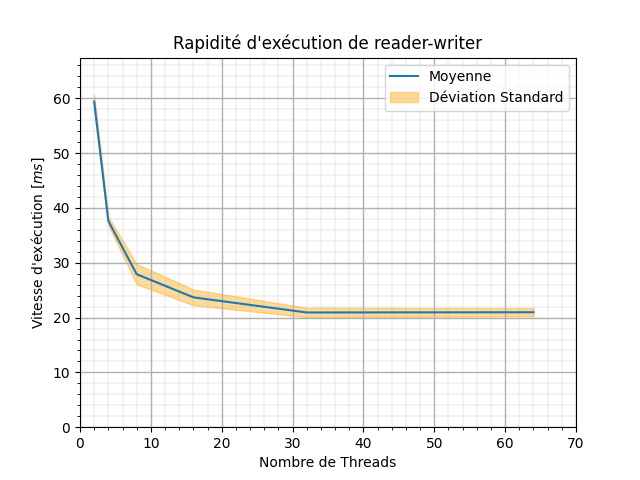
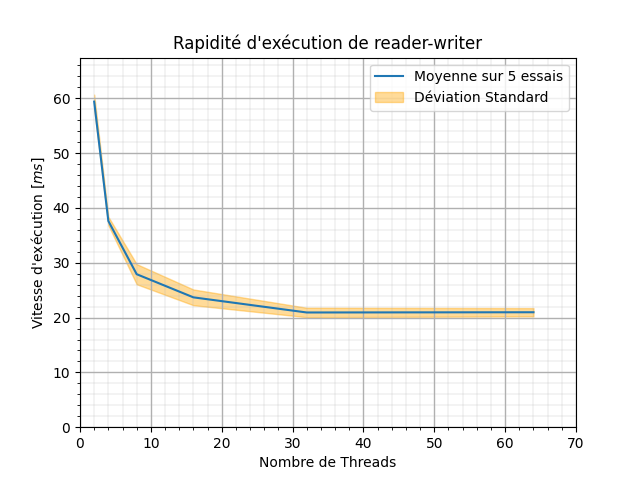
Test and set little bug fix

Changed region(s): [[0.5625, 0.125, 0.9062, 0.2188]]

diff --git a/Inginious/P1/src/test-test-and-set.c b/Inginious/P1/src/test-test-and-set.c
@@ -6,24 +6,25 @@
 int verrou = 0;
 int NTHREADS;
 
-inline void lock(){
+void lock(){
 
-__asm__(
-        
-"ENTER:"
-        "movl $1, %eax\n\t"
-        "cmpl %eax, %0\n\t"
-        "je  ENTER\n\t" //keeps checking verrou's value until it is == 0 (!= 1)
-        "jmp CHECK\n\t"
+    asm(
+            
+    "ENTER:"
+            "movl $1, %%eax\n\t"
+            "cmpl %%eax, %0\n\t"
+            "je  ENTER\n\t" //keeps checking verrou's value until it is == 0 (!= 1)
+            "jmp CHECK\n\t"
 
 
-"CHECK:"
-        "xchgl %eax, %0\n\t"
-        "testl %eax, %eax\n\t"
-        "jnz ENTER\n\t"
-        //"ret \n\t"
+    "CHECK:"
+            "xchgl %%eax, %0\n\t"
+            "testl %%eax, %%eax\n\t"
+            "jnz ENTER\n\t"
+            //"ret \n\t"
 
-);
+    :"+m"(verrou)
+    );
 
 }
 
@@ -32,11 +33,13 @@ __asm__(
 
 
 //same as test-and-test algorithm:
-inline void unlock(){
-    __asm__(
-        "movl $0, %eax\n\t"
-        "xchgl %eax, %0\n\t"
-    );}
+void unlock(){
+    asm(
+        "movl $0, %%eax\n\t"
+        "xchgl %%eax, %0\n\t"
+        :"+m"(verrou)
+    );
+}
 
 
 
@@ -82,7 +85,7 @@ void start(int NTHREADS){
 
 int main(int argc, char** argv){
     if(argc != 2){
-        printf("Please provide the amount of philosopher you want\n");
+        printf("Please provide the amount of threads you want\n");
         return EXIT_FAILURE;
     }
     NTHREADS = (int)  atoi(argv[1]);

diff --git a/Inginious/P1/perf/plot.py b/Inginious/P1/perf/plot.py
@@ -32,7 +32,7 @@ for f in os.listdir("perf/data"):
             
             standard[i] = (data[col].to_numpy()/(1000**track)).std()
             
-        ax.plot(t, av/(1000**track), label="Moyenne")
+        ax.plot(t, av/(1000**track), label=f"Moyenne sur {len(data[col])} essais")
         ax.fill_between(t, av/(1000**track) - standard, av/(1000**track) + standard, alpha=0.4, color="orange", label="Déviation Standard")
         
         ax.set_title(f"Rapidité d'exécution de {f.split(".")[0]}")

diff --git a/Inginious/P1/src/test-and-set.c b/Inginious/P1/src/test-and-set.c
@@ -63,7 +63,7 @@ void start(int NTHREADS){
 
 int main(int argc, char** argv){
     if(argc != 2){
-        printf("Please provide the amount of philosopher you want\n");
+        printf("Please provide the amount of threads you want\n");
         return EXIT_FAILURE;
     }
     NTHREADS = (int)  atoi(argv[1]);

diff --git a/Inginious/P1/README.md b/Inginious/P1/README.md
@@ -56,3 +56,6 @@ Pour réaliser les tests de
 
 ![test-and-set](perf/plot/test-and-set_plot.png)
 
+
+![test-test-and-set](perf/plot/test-test-and-set_plot.png)
+
